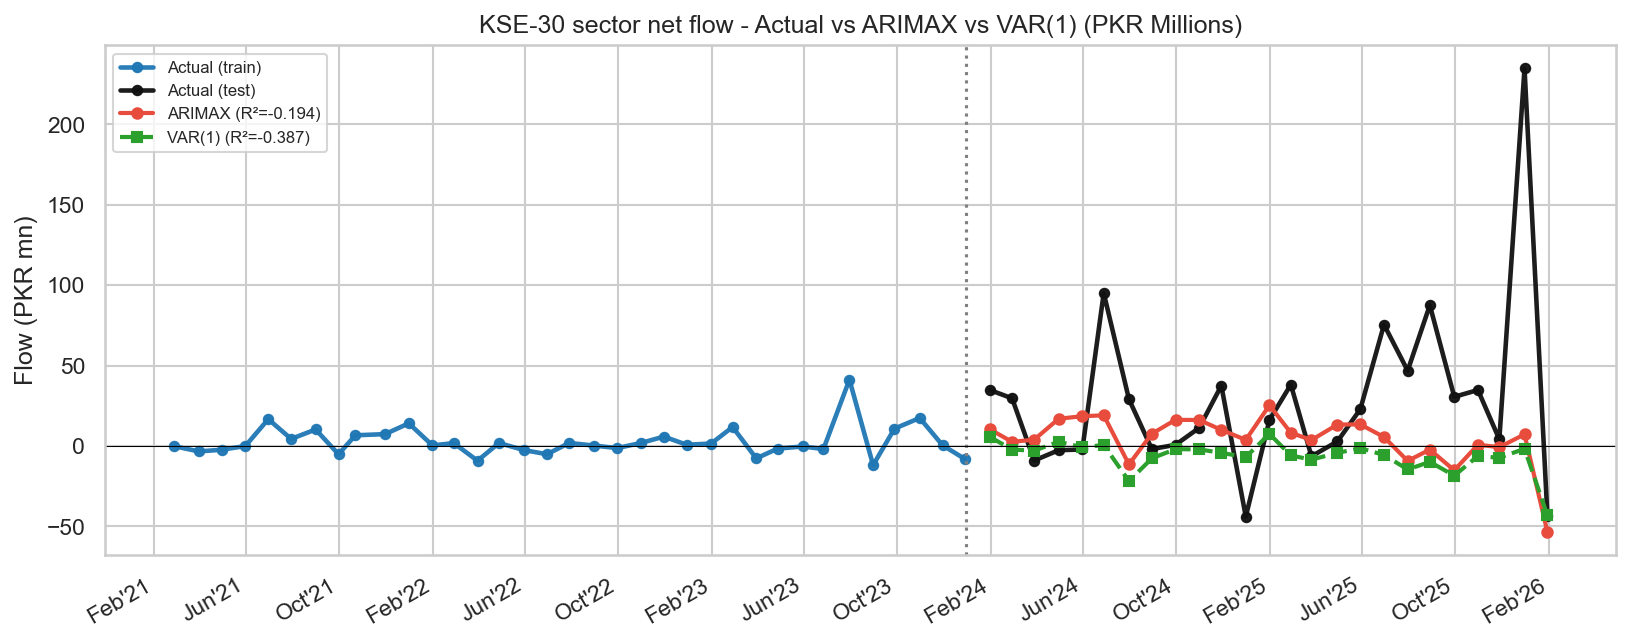
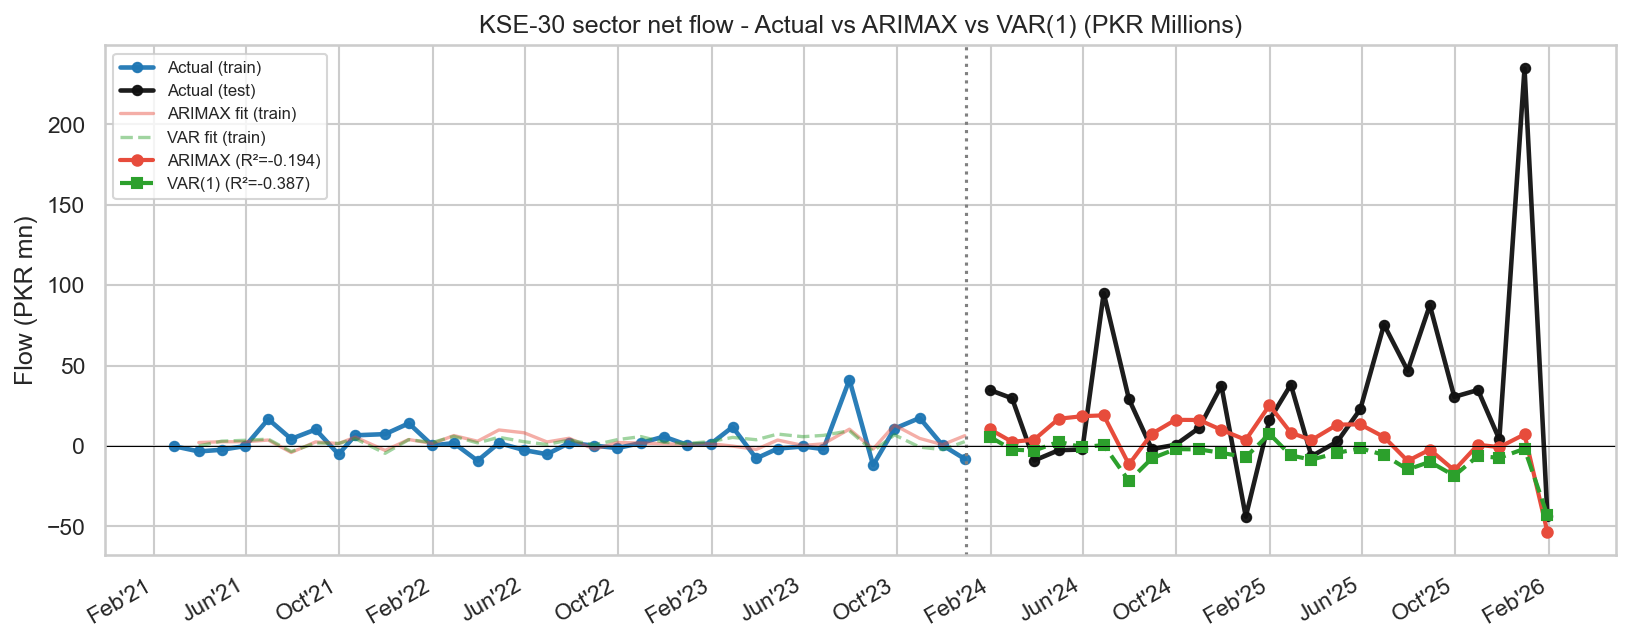
.

Changed region(s): [[0.0613, 0.1558, 0.2146, 0.3115], [0.2759, 0.6542, 0.5825, 0.7165], [0.1226, 0.6854, 0.2759, 0.7165]]

diff --git a/6_cursor_model/pipeline.py b/6_cursor_model/pipeline.py
@@ -946,6 +946,11 @@ for t in range(len(Y_te)):
     var_preds.append(z @ betas_var[0]); history_Y.append(Y_te[t])
 m_var = metrics_reg(y_te, np.array(var_preds), "VAR(1)         ")
 
+# In-sample fitted values for train-period visual diagnostics
+dates_tr_arimax_fit = best_arimax["tr_df"]["date"].values[1:]
+dates_tr_var_fit = monthly.loc[(monthly["date"]<=TRAIN_END), "date"].dropna().values[1:]
+var_fit_train = Z_tr @ betas_var[0]
+
 # ── 5.5 Fund flow figures ─────────────────────────────────────────────────────
 plot_df = monthly[["date", TARGET]].dropna().sort_values("date").copy()
 plot_train = plot_df["date"] <= pd.Timestamp(TRAIN_END)
@@ -960,6 +965,10 @@ ax.plot(dates_tr, vals_tr, "o-", color="#1f77b4", linewidth=2.2, markersize=4.5,
         alpha=0.95, label="Actual (train)")
 ax.plot(dates_te, vals_te, "o-", color="#111111", linewidth=2.2, markersize=4.5,
         alpha=0.95, label="Actual (test)")
+ax.plot(dates_tr_arimax_fit, arimax_fit, "-", color="#e74c3c", linewidth=1.6,
+        alpha=0.45, label="ARIMAX fit (train)")
+ax.plot(dates_tr_var_fit, var_fit_train, "--", color="#2ca02c", linewidth=1.6,
+        alpha=0.45, label="VAR fit (train)")
 ax.plot(dates_te_ff, arimax_pred, "o-", color="#e74c3c", linewidth=2,
         markersize=5, label=f"ARIMAX (R²={m_arimax['R2']:.3f})")
 ax.plot(dates_te, np.array(var_preds), "s--", color="#2ca02c", linewidth=2,
